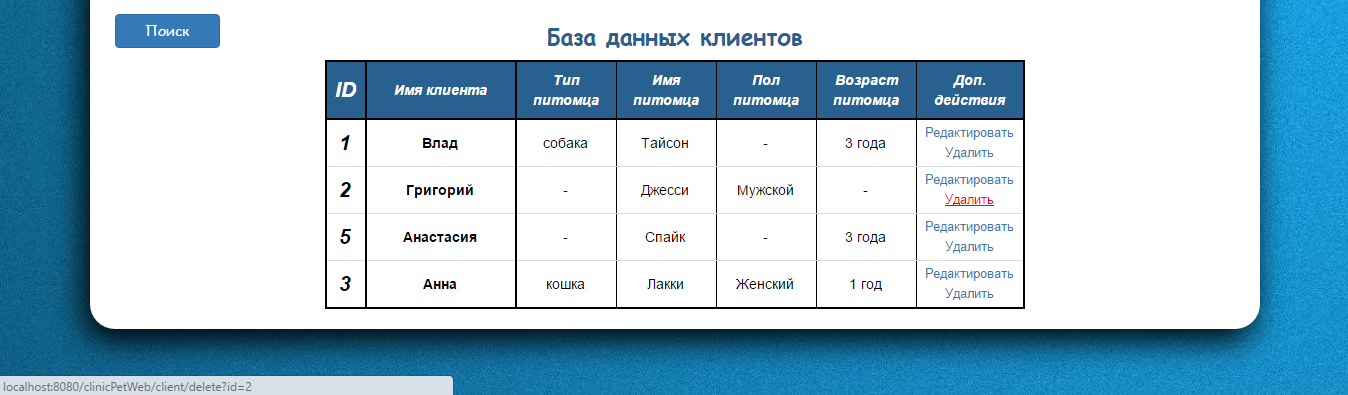
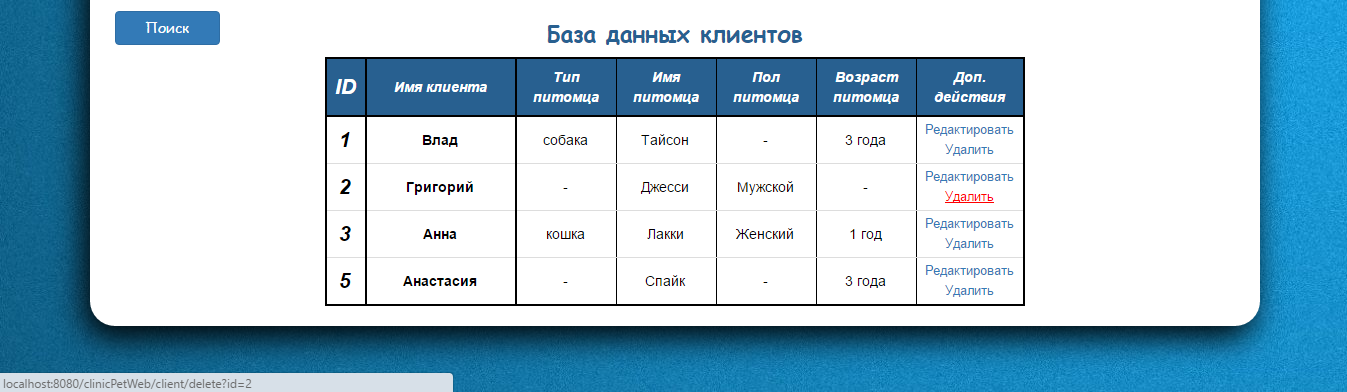
JDBC

diff --git a/ClinicPetWeb/src/main/java/ru/clinicPetWeb/store/JdbcStorage.java b/ClinicPetWeb/src/main/java/ru/clinicPetWeb/store/JdbcStorage.java
@@ -48,7 +48,7 @@ public class JdbcStorage implements Storage {
         clients.clear();
 		try (final Statement statement = this.connection.createStatement();
 		     final ResultSet rs = statement.executeQuery
-                     ("select * from client right join pet on client.uid = pet.client_id")) {
+                     ("select * from client right join pet on client.uid = pet.client_id ORDER BY client.uid")) {
 			while (rs.next()) {
 				clients.add(new Client(rs.getInt("uid"), rs.getString("name"),
 							new Pet(rs.getString("type"), rs.getString("petName"),
